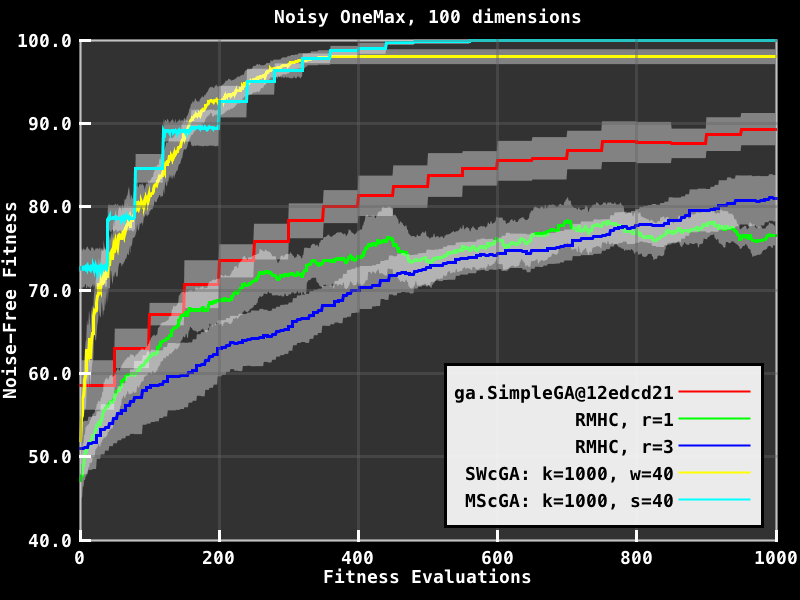
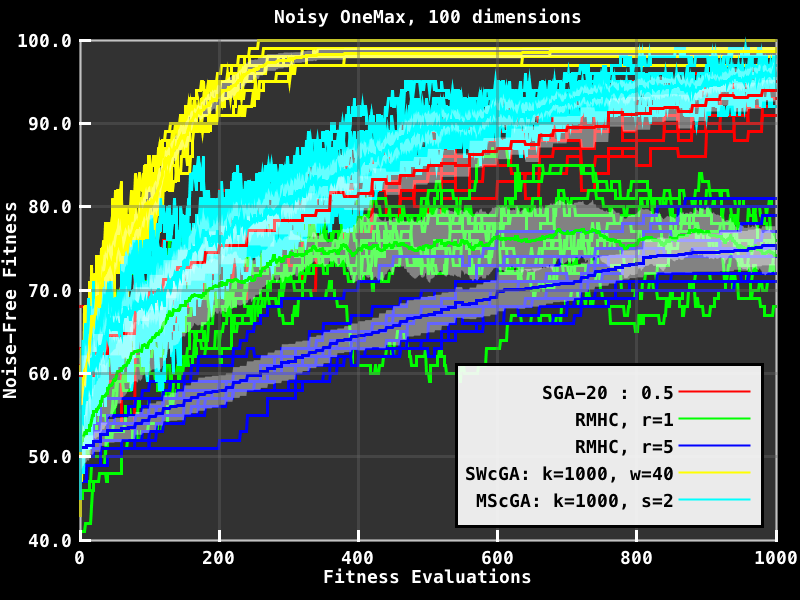
Updated some visualistion code for OneMax

diff --git a/src/ga/OneMaxVisual.java b/src/ga/OneMaxVisual.java
@@ -17,12 +17,25 @@ public class OneMaxVisual {
     int[] bestYet;
 
     public static void main(String[] args) {
-        int dim = 100;
-        new OneMaxVisual(dim).run(maxEvals);
+        int dim = 36;
+        double noise = 0;
+        if (args.length > 0) {
+            try {
+                noise = Double.parseDouble(args[0]);
+            } catch (Exception e) {
+                System.out.println(e);
+            }
+        }
+        new OneMaxVisual(dim).setNoise(noise).run(maxEvals);
     }
 
     public OneMaxVisual(int n) {
         this(randVec(n));
+    }
+
+    public OneMaxVisual setNoise(double noise) {
+        this.noise = noise;
+        return this;
     }
 
     public OneMaxVisual(int[] bestYet) {
@@ -36,13 +49,15 @@ public class OneMaxVisual {
             // randomly mutate the best yet
             int[] mut = randMut(bestYet);
             view.v = mut;
-            frame.setTitle(i + " : " + countOnes(mut));
+            int test = countOnes(mut);
+            // frame.setTitle(i + " : " + countOnes(mut));
             view.repaint();
             delay();
             // if it's better then adopt the mutation as the new best
-            if (countOnes(mut) >= countOnes(bestYet)) {
+            if (countOnes(mut) + noise * random.nextGaussian() >= countOnes(bestYet) + noise * random.nextGaussian()) {
                 bestYet = mut;
             }
+            frame.setTitle(i + " : " + countOnes(bestYet) + " : " + test);
             // System.out.println(Arrays.toString(bestYet));
             if (countOnes(bestYet) == bestYet.length) {
                 // return how many evals it took to reach perfection
@@ -58,6 +73,9 @@ public class OneMaxVisual {
             Thread.sleep(200);
         } catch (Exception e) {}
     }
+
+
+    double noise = 1.0;
 
     public int countOnes(int[] x) {
         int tot = 0;

diff --git a/src/evodef/TestEAGraphRunTrials.java b/src/evodef/TestEAGraphRunTrials.java
@@ -40,16 +40,16 @@ public class TestEAGraphRunTrials {
         // Set up all the algorithms to test
 
         SimpleRMHC rmhc1 = new SimpleRMHC(1);
-        SimpleRMHC rmhc5 = new SimpleRMHC(3);
+        SimpleRMHC rmhc5 = new SimpleRMHC(5);
 
-        SimpleGA sga = new SimpleGA().setPopulationSize(50).setCrossoverRate(0.8);
+        SimpleGA sga = new SimpleGA().setPopulationSize(20).setCrossoverRate(0.5);
 
         int windowLength = 40;
         CompactSlidingGA slidingGA = new CompactSlidingGA().setHistoryLength(windowLength);
         slidingGA.useBayesUpdates = false;
         slidingGA.K = 1000; // nDims * windowLength / 2;
 
-        int nParents = 40;
+        int nParents = 2;
         CompactBinaryGA cga = new CompactBinaryGA().setParents(nParents);
         // cga.K = nDims / 2; //  * nParents;  // setting from Jialin
         cga.K = 1000; // nDims * nParents;
@@ -96,7 +96,7 @@ public class TestEAGraphRunTrials {
             System.out.println(results.trueOpt);
             System.out.println(elapsedTimer);
             System.out.println();
-            // lineChart.addLines(results.linePlots);
+            lineChart.addLines(results.linePlots);
 
             lineChart.addLineGroup(results.getLineGroup().setColor(colors[i]).setName(results.name));
         }

diff --git a/src/battle/SimpleBattleState.java b/src/battle/SimpleBattleState.java
@@ -14,7 +14,6 @@ import static battle.BattleGameParameters.*;
  * Created by simonmarklucas on 04/10/2016.
  */
 
-
 public class SimpleBattleState {
 
     public static void main(String[] args) {
@@ -134,14 +133,10 @@ public class SimpleBattleState {
         return diskDifferenceHeuristic(ships[0], ships[1]);
     }
 
-
-
     public double simpleHeuristic() {
         // this one simple encourages some interaction!
         return -ships[0].s.dist(ships[1].s);
     }
-
-
 
     public double diskDifferenceHeuristic(SimpleShip attacker, SimpleShip defender) {
         double d1 = attackDiskDifference(attacker, defender);
@@ -156,8 +151,5 @@ public class SimpleBattleState {
         tmp.add(attacker.d, projection);
         return defender.s.dist(tmp);
     }
-
-
-
 
 }

diff --git a/src/ga/SimpleGA.java b/src/ga/SimpleGA.java
@@ -19,10 +19,15 @@ public class SimpleGA implements EvoAlg {
 
     public static void main(String[] args) {
         int popSize = 100;
-        SimpleGA sga = new SimpleGA().setPopulationSize(20);
+        SimpleGA sga = new SimpleGA().setPopulationSize(20).setCrossoverRate(0.5);
         for (int i=0; i<20; i++) {
             System.out.println(sga.selectRank(popSize));
         }
+        System.out.println(sga);
+    }
+
+    public String toString() {
+        return "SGA-" + popSize + " : " + crossoverRate;
     }
 
     int popSize;

diff --git a/src/battle/BattleView.java b/src/battle/BattleView.java
@@ -102,6 +102,9 @@ public class BattleView extends JComponent {
             tmp.add(ss.d, SimpleBattleState.projection);
             // now do a fill-oval
             int r = (int) damageRadius;
+            if (game.damageFunction(game.ships[i], game.ships[(i+1) % game.ships.length]) > 0) {
+                g.setColor(Color.red);
+            }
             g.fillOval((int) tmp.x-r, (int) tmp.y-r, 2*r, 2*r);
         }
 

diff --git a/src/gvglink/SpaceBattleLinkTestTwoPlayer.java b/src/gvglink/SpaceBattleLinkTestTwoPlayer.java
@@ -72,7 +72,7 @@ public class SpaceBattleLinkTestTwoPlayer {
         SpaceBattleLinkStateTwoPlayer linkState = new SpaceBattleLinkStateTwoPlayer();
         StateObservationMulti multi = linkState;
 
-        GameActionSpaceAdapterMulti.useHeuristic = true;
+        GameActionSpaceAdapterMulti.useHeuristic = false;
 
         Mutator.totalRandomChaosMutation = false;
 
